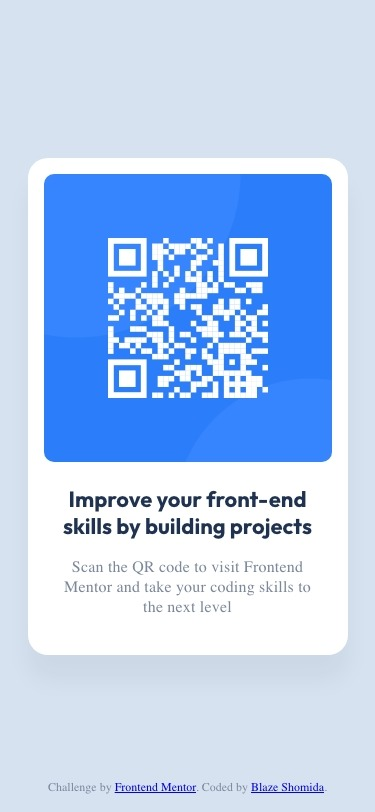
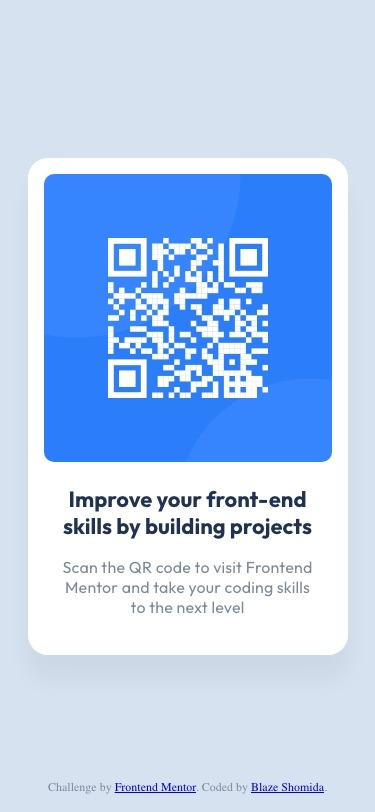
Updated CSS and README
Updated CSS styles for the font family of the card body text to match the design as well as the screenshots and links in the README file.

Changed region(s): [[0.176, 0.6773, 0.8507, 0.7697]]

diff --git a/style.css b/style.css
@@ -81,6 +81,7 @@ body {
     line-height: 1.26;
     color: var(--clr-text-secondary);
     font-weight: var(--fw-regular);
+    font-family:var(--ff-primary);
     letter-spacing: 0.19px;
 }
 

diff --git a/README.md b/README.md
@@ -48,8 +48,8 @@ In this project, I took on the [QR Code Component Challenge](https://www.fronten
 
 ### Links
 
-- Solution URL: [Add solution URL here](https://your-solution-url.com)
-- Live Site URL: [Add live site URL here](https://your-live-site-url.com)
+- Solution URL: [View Solution HERE](https://www.frontendmentor.io/solutions/qr-code-component-using-flexbox-and-figma-GJgGmLZk3u)
+- Live Site URL: [View Live Site HERE](https://blazeshomida.github.io/QR-Code-Component/)
 
 ***
 
